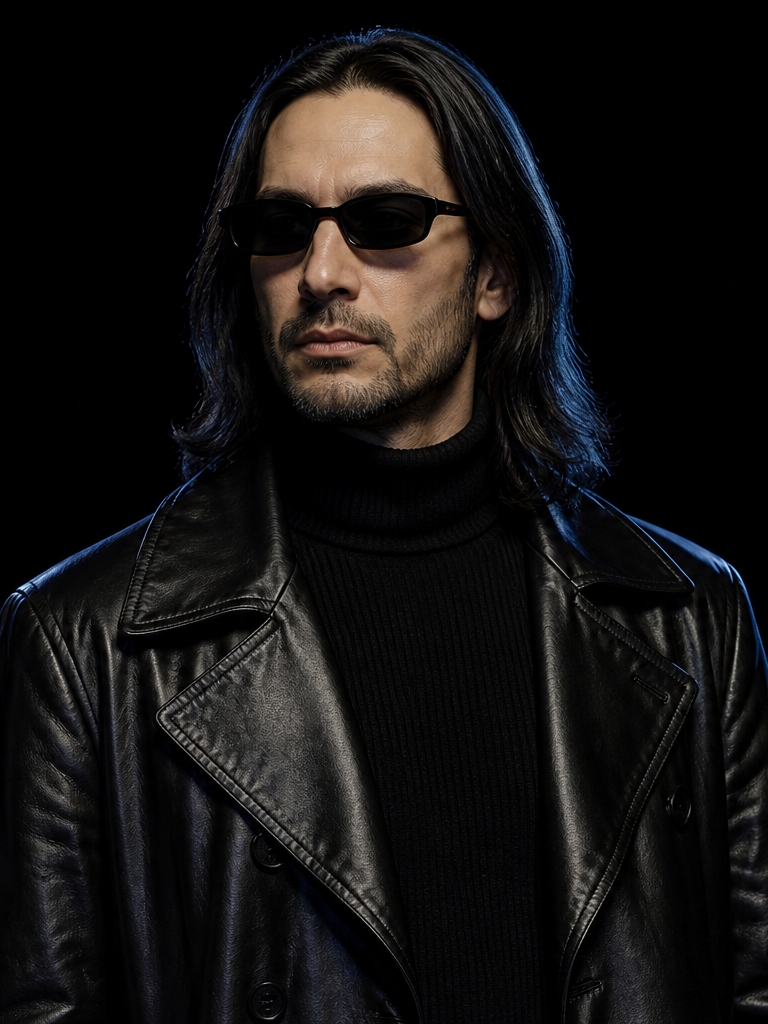
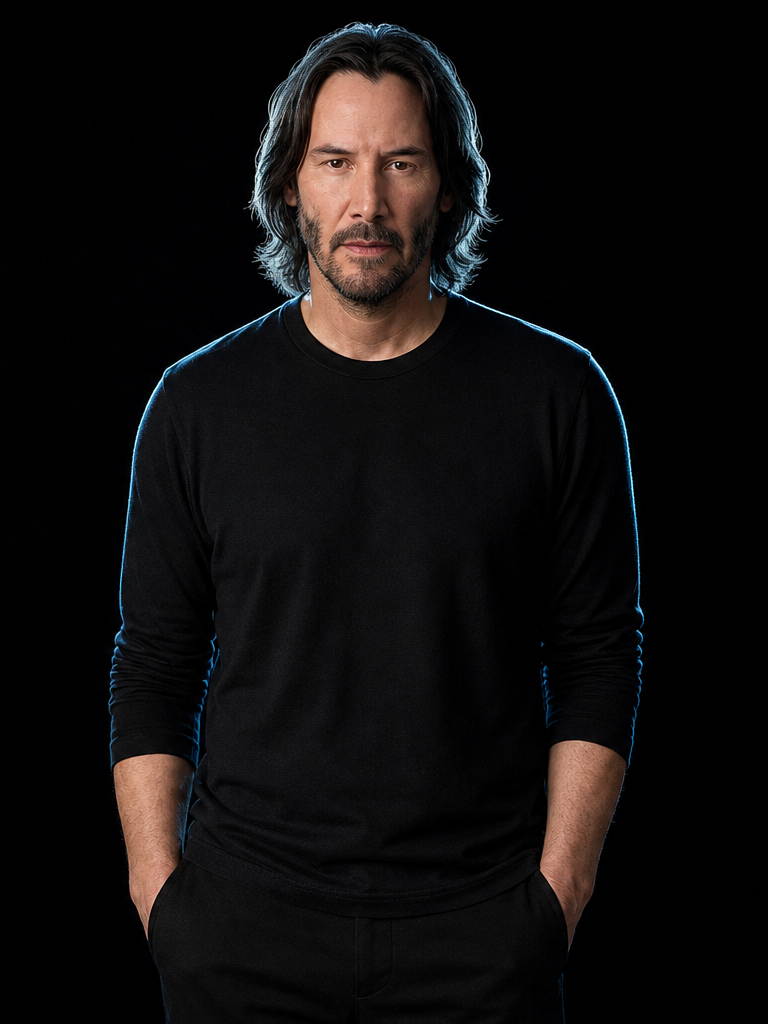
Revert celebrity costumes except Sabrina’s concert look.

diff --git a/index.html b/index.html
@@ -1256,19 +1256,19 @@
       <p class="s3-head">Celebrity layers</p>
       <div class="scenario-grid" id="celeb-grid" role="listbox" aria-label="Celebrity personalities">
         <button type="button" class="scenario" role="option" data-layer="keanu" aria-pressed="false">
-          <img class="scenario-art" src="assets/scenarios/keanu.png?v=2" alt="" />
+          <img class="scenario-art" src="assets/scenarios/keanu.png?v=3" alt="" />
           <span class="scenario-label"><strong>Keanu</strong></span>
         </button>
         <button type="button" class="scenario" role="option" data-layer="barbie" aria-pressed="false">
-          <img class="scenario-art" src="assets/scenarios/barbie.png?v=2" alt="" />
+          <img class="scenario-art" src="assets/scenarios/barbie.png?v=3" alt="" />
           <span class="scenario-label"><strong>Barbie</strong></span>
         </button>
         <button type="button" class="scenario" role="option" data-layer="elsa" aria-pressed="false">
-          <img class="scenario-art" src="assets/scenarios/elsa.png?v=2" alt="" />
+          <img class="scenario-art" src="assets/scenarios/elsa.png?v=3" alt="" />
           <span class="scenario-label"><strong>Elsa</strong></span>
         </button>
         <button type="button" class="scenario" role="option" data-layer="elisabeth" aria-pressed="false">
-          <img class="scenario-art" src="assets/scenarios/elisabeth.png?v=2" alt="" />
+          <img class="scenario-art" src="assets/scenarios/elisabeth.png?v=3" alt="" />
           <span class="scenario-label"><strong>Elisabeth</strong></span>
         </button>
         <button type="button" class="scenario" role="option" data-layer="bill" aria-pressed="false">
@@ -1284,7 +1284,7 @@
           <span class="scenario-label"><strong>Bluey</strong></span>
         </button>
         <button type="button" class="scenario" role="option" data-layer="zendaya" aria-pressed="false">
-          <img class="scenario-art" src="assets/scenarios/zendaya.png?v=2" alt="" />
+          <img class="scenario-art" src="assets/scenarios/zendaya.png?v=3" alt="" />
           <span class="scenario-label"><strong>Zendaya</strong></span>
         </button>
         <button type="button" class="scenario" role="option" data-layer="sabrina" aria-pressed="false">
@@ -1292,11 +1292,11 @@
           <span class="scenario-label"><strong>Sabrina</strong></span>
         </button>
         <button type="button" class="scenario" role="option" data-layer="timothee" aria-pressed="false">
-          <img class="scenario-art" src="assets/scenarios/timothee.png?v=2" alt="" />
+          <img class="scenario-art" src="assets/scenarios/timothee.png?v=3" alt="" />
           <span class="scenario-label"><strong>Timothée</strong></span>
         </button>
         <button type="button" class="scenario" role="option" data-layer="sydney" aria-pressed="false">
-          <img class="scenario-art" src="assets/scenarios/sydney.png?v=2" alt="" />
+          <img class="scenario-art" src="assets/scenarios/sydney.png?v=3" alt="" />
           <span class="scenario-label"><strong>Sydney</strong></span>
         </button>
         <button type="button" class="scenario" role="option" data-layer="wednesday" aria-pressed="false">
